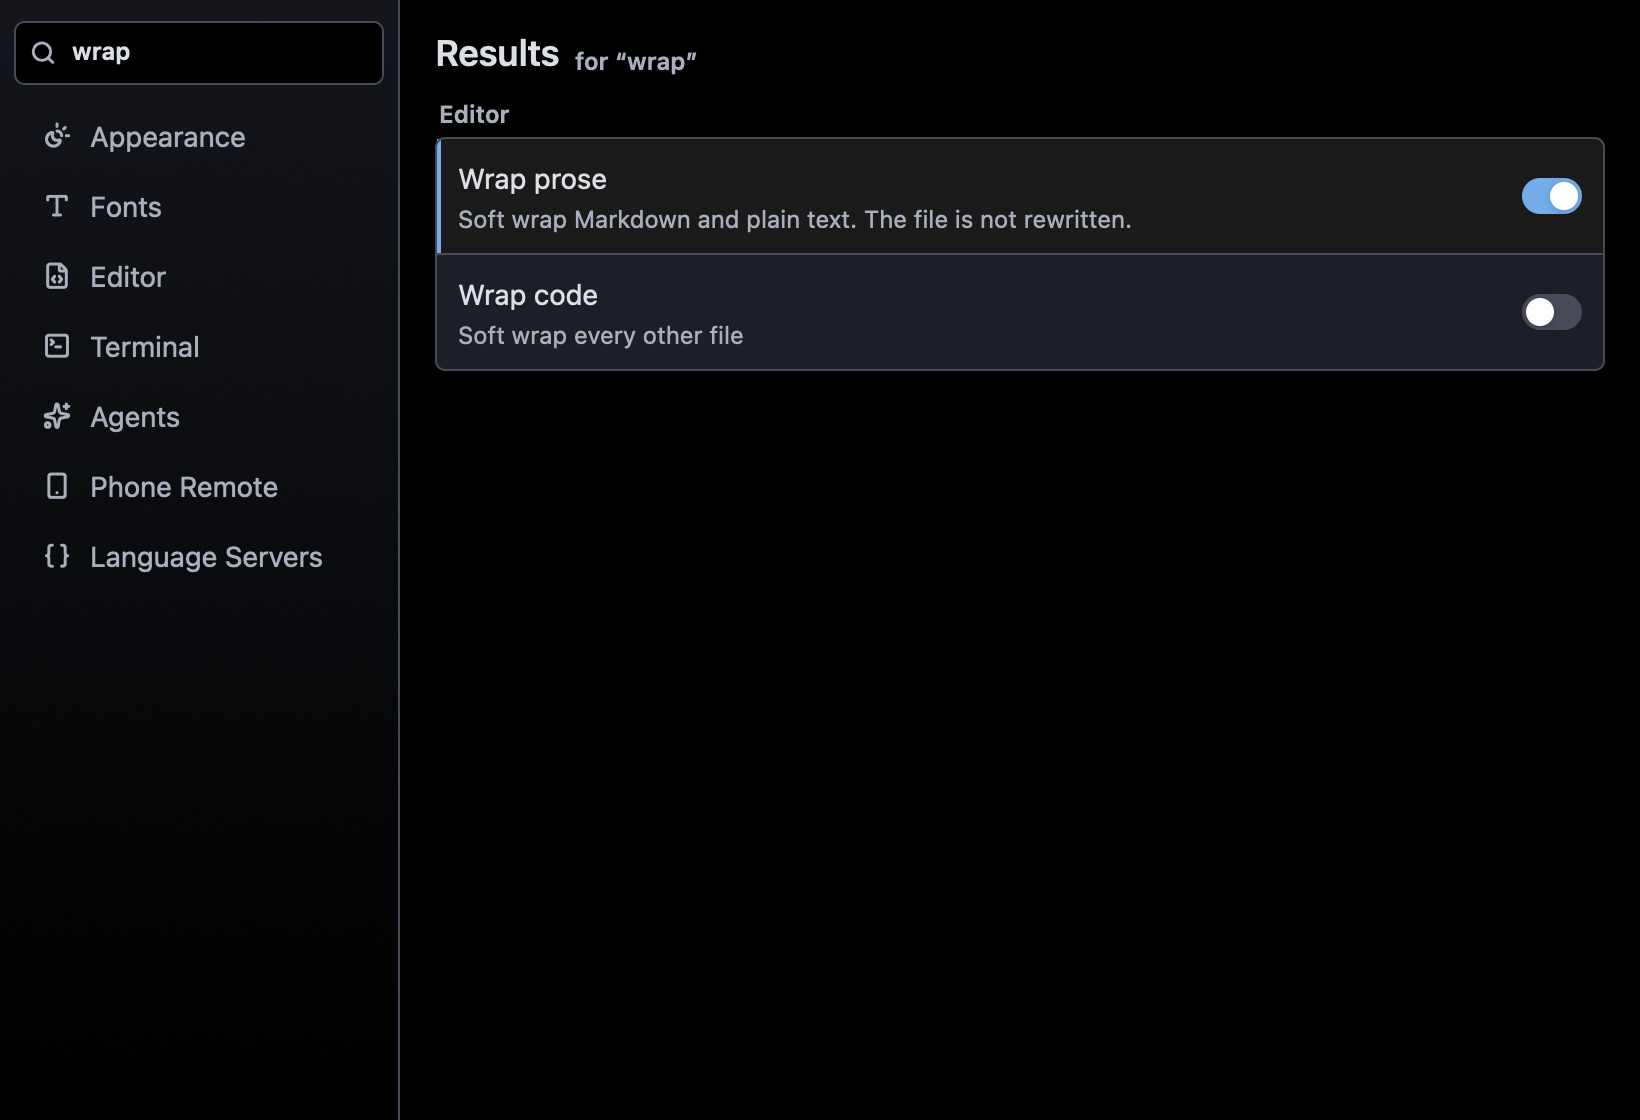
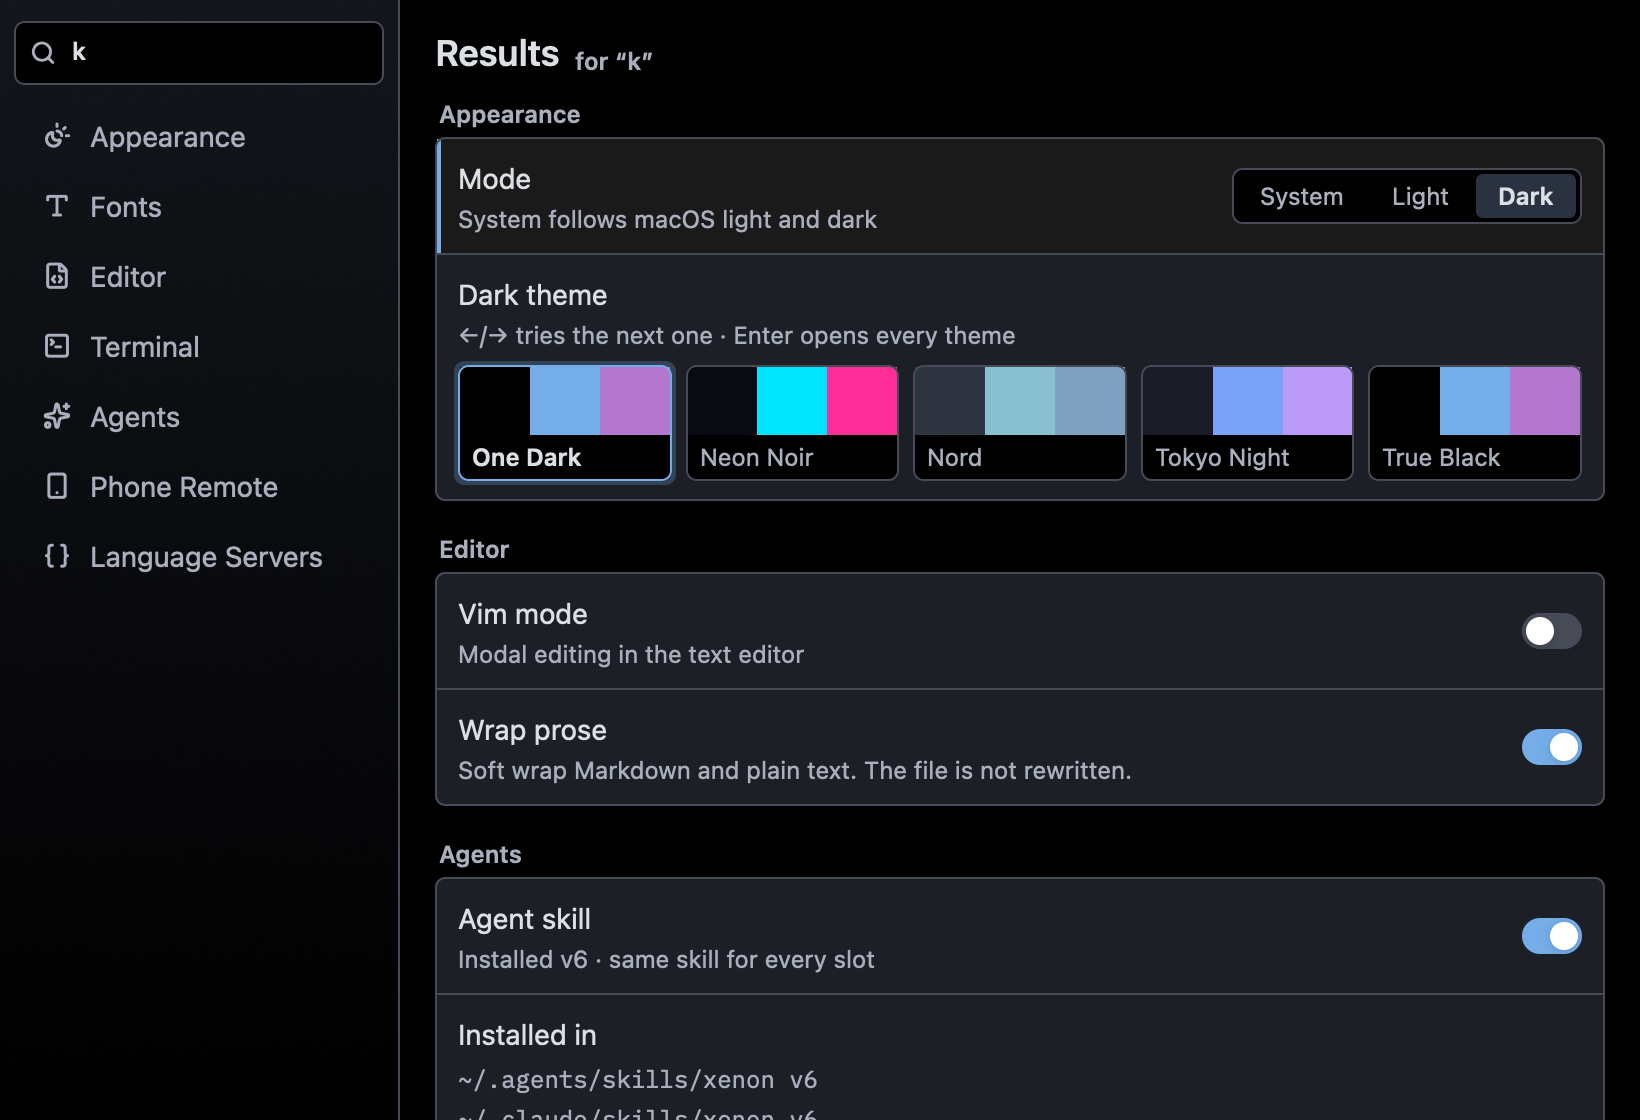
Settings: keep typed keys in their field, and scroll long pages instead of squashing.
Plain characters a focused child input leaves alone (search, font filter,
inline fields) bubbled to the window's type-to-search, which replaced the
query with each new letter. Window-level navigation now runs only when the
window itself holds focus.

The pane's rows shrank to fit when results or a page overflowed, so text
overlapped. Rows keep their height and the pane scrolls. The search scene
now uses a broad query that overflows, and a keyboard regression types
"wrap" and checks the query.

diff --git a/crates/xenon/src/visual_test_runner/keyboard.rs b/crates/xenon/src/visual_test_runner/keyboard.rs
@@ -4,9 +4,10 @@
 type Check = fn(&mut gpui::VisualTestAppContext) -> anyhow::Result<()>;
 
 pub(crate) fn run_all(cx: &mut gpui::VisualTestAppContext) -> anyhow::Result<()> {
-    let checks: [(&str, Check); 4] = [
+    let checks: [(&str, Check); 5] = [
         ("keyboard_worklist_escape", shortcuts_survive_worklist_escape),
         ("keyboard_settings_rows", settings_keys_reach_rows),
+        ("keyboard_settings_search_typing", settings_typing_extends_search),
         ("keyboard_offscreen_focus", shortcuts_survive_offscreen_focus),
         ("keyboard_stranded_key_replay", stranded_key_is_replayed),
     ];
@@ -67,6 +68,29 @@ fn settings_keys_reach_rows(cx: &mut gpui::VisualTestAppContext) -> anyhow::Resu
     cx.simulate_keystrokes(settings.into(), "space");
     cx.run_until_parked();
     anyhow::ensure!(after != before, "⌘3 ↓ ↓ Space did not toggle Wrap prose");
+    Ok(())
+}
+
+/// Settings: typing starts search, and later letters extend the query instead
+/// of bubbling out of the field and restarting it.
+fn settings_typing_extends_search(cx: &mut gpui::VisualTestAppContext) -> anyhow::Result<()> {
+    let window = crate::open_window(cx)?;
+    window.update(cx, |app, window, cx| {
+        xenon_ui::apply_scene(app, xenon_ui::Scene::SettingsWindow, window, cx);
+    })?;
+    cx.run_until_parked();
+    let settings = window
+        .update(cx, |app, _, _| app.visual_settings_window())?
+        .ok_or_else(|| anyhow::anyhow!("settings window missing"))?;
+    for keys in ["w", "r", "a", "p"] {
+        cx.simulate_keystrokes(settings.into(), keys);
+        cx.update_window(settings.into(), |_, window, _| window.refresh())?;
+        cx.run_until_parked();
+    }
+    let query = settings.update(cx, |view, _, _| view.visual_query().to_owned())?;
+    cx.simulate_keystrokes(settings.into(), "escape");
+    cx.run_until_parked();
+    anyhow::ensure!(query == "wrap", "typed \"wrap\" but search holds {query:?}");
     Ok(())
 }
 

diff --git a/crates/xenon_ui/src/app/visual/settings.rs b/crates/xenon_ui/src/app/visual/settings.rs
@@ -11,7 +11,8 @@ pub(super) fn page(app: &mut XenonApp, scene: Scene, cx: &mut Context<XenonApp>)
     let (page, query) = match scene {
         Scene::SettingsEditor => (SettingsPage::Editor, ""),
         Scene::SettingsLanguageServers => (SettingsPage::LanguageServers, ""),
-        Scene::SettingsSearch => (SettingsPage::Appearance, "wrap"),
+        // A broad query: results must overflow and scroll, not squash.
+        Scene::SettingsSearch => (SettingsPage::Appearance, "k"),
         _ => (SettingsPage::Appearance, ""),
     };
     if scene == Scene::SettingsLight {

diff --git a/crates/xenon_ui/src/settings/keys.rs b/crates/xenon_ui/src/settings/keys.rs
@@ -33,7 +33,13 @@ impl SettingsView {
             cx.stop_propagation();
             return;
         }
-        if modifiers.control || modifiers.alt || modifiers.function {
+        // Keys a focused child input left alone (plain characters, space) bubble
+        // here; they belong to that input, not to row navigation or type-to-search.
+        if modifiers.control
+            || modifiers.alt
+            || modifiers.function
+            || !self.focus.is_focused(window)
+        {
             return;
         }
         if self.navigate(key, window, cx) {

diff --git a/crates/xenon_ui/src/settings/pane.rs b/crates/xenon_ui/src/settings/pane.rs
@@ -75,7 +75,12 @@ impl SettingsView {
             .pt_4()
             .pb_5()
             .on_click(cx.listener(|this, _, window, cx| this.dismiss_dropdown(window, cx)))
-            .children(children)
+            // Children keep their height; a long page or result list scrolls instead of squashing.
+            .children(
+                children
+                    .into_iter()
+                    .map(|child| div().flex_none().child(child).into_any_element()),
+            )
             .into_any_element()
     }
 }

diff --git a/crates/xenon_ui/src/settings/mod.rs b/crates/xenon_ui/src/settings/mod.rs
@@ -225,6 +225,11 @@ impl SettingsView {
             self.set_query(query.to_string(), cx);
         }
     }
+
+    /// Keyboard tests: the live search query.
+    pub fn visual_query(&self) -> &str {
+        &self.query
+    }
 }
 
 impl Focusable for SettingsView {
